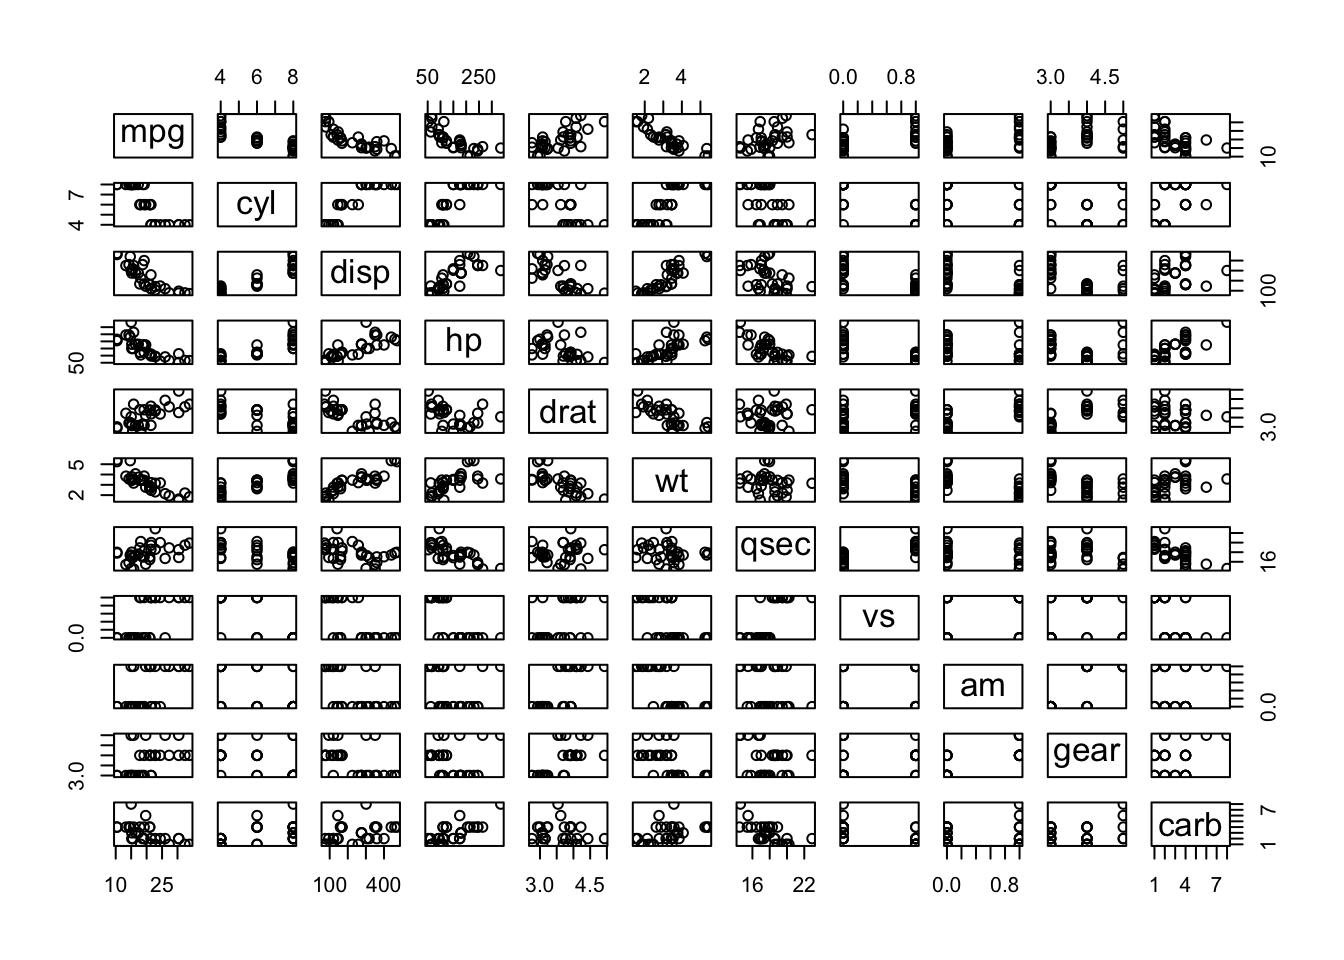
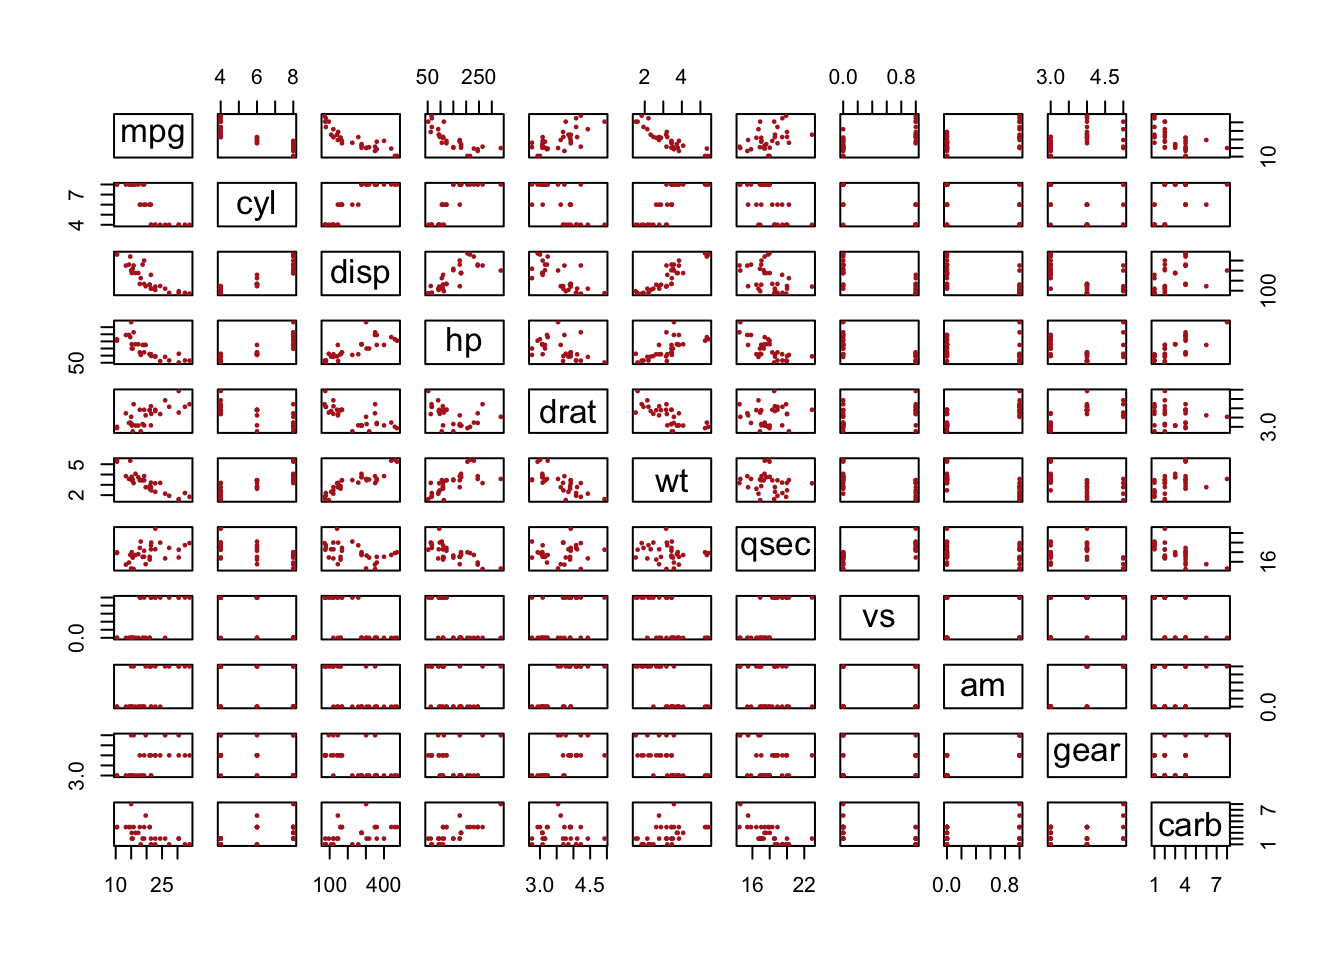
Add files via upload

diff --git a/assignment1.html b/assignment1.html
@@ -7,7 +7,7 @@
 <meta name="viewport" content="width=device-width, initial-scale=1.0, user-scalable=yes">
 
 
-<title>Su Goh - About</title>
+<title>Su Goh - Assignment#1</title>
 <style>
 code{white-space: pre-wrap;}
 span.smallcaps{font-variant: small-caps;}
@@ -19,40 +19,6 @@ ul.task-list li input[type="checkbox"] {
   width: 0.8em;
   margin: 0 0.8em 0.2em -1em; /* quarto-specific, see https://github.com/quarto-dev/quarto-cli/issues/4556 */ 
   vertical-align: middle;
-}
-/* CSS for syntax highlighting */
-pre > code.sourceCode { white-space: pre; position: relative; }
-pre > code.sourceCode > span { display: inline-block; line-height: 1.25; }
-pre > code.sourceCode > span:empty { height: 1.2em; }
-.sourceCode { overflow: visible; }
-code.sourceCode > span { color: inherit; text-decoration: inherit; }
-div.sourceCode { margin: 1em 0; }
-pre.sourceCode { margin: 0; }
-@media screen {
-div.sourceCode { overflow: auto; }
-}
-@media print {
-pre > code.sourceCode { white-space: pre-wrap; }
-pre > code.sourceCode > span { text-indent: -5em; padding-left: 5em; }
-}
-pre.numberSource code
-  { counter-reset: source-line 0; }
-pre.numberSource code > span
-  { position: relative; left: -4em; counter-increment: source-line; }
-pre.numberSource code > span > a:first-child::before
-  { content: counter(source-line);
-    position: relative; left: -1em; text-align: right; vertical-align: baseline;
-    border: none; display: inline-block;
-    -webkit-touch-callout: none; -webkit-user-select: none;
-    -khtml-user-select: none; -moz-user-select: none;
-    -ms-user-select: none; user-select: none;
-    padding: 0 4px; width: 4em;
-  }
-pre.numberSource { margin-left: 3em;  padding-left: 4px; }
-div.sourceCode
-  {   }
-@media screen {
-pre > code.sourceCode > span > a:first-child::before { text-decoration: underline; }
 }
 </style>
 
@@ -119,11 +85,11 @@ pre > code.sourceCode > span > a:first-child::before { text-decoration: underlin
  <span class="menu-text">Home</span></a>
   </li>  
   <li class="nav-item">
-    <a class="nav-link active" href="./about.html" rel="" target="" aria-current="page">
+    <a class="nav-link" href="./about.html" rel="" target="">
  <span class="menu-text">About</span></a>
   </li>  
   <li class="nav-item">
-    <a class="nav-link" href="./assignment1.html" rel="" target="">
+    <a class="nav-link active" href="./assignment1.html" rel="" target="" aria-current="page">
  <span class="menu-text">Assignment1</span></a>
   </li>  
   <li class="nav-item">
@@ -153,7 +119,7 @@ pre > code.sourceCode > span > a:first-child::before { text-decoration: underlin
 
 <header id="title-block-header" class="quarto-title-block default">
 <div class="quarto-title">
-<h1 class="title">About</h1>
+<h1 class="title">Assignment#1</h1>
 </div>
 
 
@@ -168,13 +134,28 @@ pre > code.sourceCode > span > a:first-child::before { text-decoration: underlin
 
 </header>
 
-<p>I am a graduate student at UT Dallas using R</p>
-<div class="cell">
-<div class="sourceCode cell-code" id="cb1"><pre class="sourceCode r code-with-copy"><code class="sourceCode r"><span id="cb1-1"><a href="#cb1-1" aria-hidden="true" tabindex="-1"></a><span class="fu">plot</span>(iris)</span></code><button title="Copy to Clipboard" class="code-copy-button"><i class="bi"></i></button></pre></div>
-<div class="cell-output-display">
-<p><img src="about_files/figure-html/unnamed-chunk-1-1.png" class="img-fluid" width="672"></p>
-</div>
-</div>
+<p>Assignment#1</p>
+<p>1.</p>
+<p><img src="assignment1_images/anscombe_data.jpeg" id="overview" class="img-fluid" width="500"></p>
+<p>Anscombe Data</p>
+<p><img src="assignment1_images/Rplot_anscombe01.jpeg" class="img-fluid" width="500"></p>
+<p>Anscombe’s Plots</p>
+<ol start="2" type="1">
+<li>Examples of Generative Art</li>
+</ol>
+<p><img src="assignment1_images/GenerativeArt_ManfredMohr.jpeg" class="img-fluid" width="500"></p>
+<p>Manfred Mohr. P-026-l, 1970, Plotter drawing on parchment paper, DAM Projects, Berlin.</p>
+<p><img src="assignment1_images/GenerativeArt_TylerHobbsQQL.jpeg" class="img-fluid" width="500"></p>
+<p>Tyler Hobbs, QQL: Analog 12 (QQL #230), 2023. Courtesy of the artist and Pace Gallery</p>
+<ol start="3" type="1">
+<li>Change different colors of a tree</li>
+</ol>
+<p><img src="assignment1_images/RplotPeru.jpeg" class="img-fluid" width="300"></p>
+<p>Chocolate Color</p>
+<p><img src="assignment1_images/RplotSpringOrchid.jpeg" class="img-fluid" width="300"></p>
+<p>Orchid Color</p>
+<p><img src="assignment1_images/RplotSpringPalegreen.jpeg" class="img-fluid" width="300"></p>
+<p>Palegreen Color</p>
 
 
 

diff --git a/assignment2.html b/assignment2.html
@@ -7,7 +7,7 @@
 <meta name="viewport" content="width=device-width, initial-scale=1.0, user-scalable=yes">
 
 
-<title>Su Goh - About</title>
+<title>Su Goh - Assignment#2</title>
 <style>
 code{white-space: pre-wrap;}
 span.smallcaps{font-variant: small-caps;}
@@ -19,40 +19,6 @@ ul.task-list li input[type="checkbox"] {
   width: 0.8em;
   margin: 0 0.8em 0.2em -1em; /* quarto-specific, see https://github.com/quarto-dev/quarto-cli/issues/4556 */ 
   vertical-align: middle;
-}
-/* CSS for syntax highlighting */
-pre > code.sourceCode { white-space: pre; position: relative; }
-pre > code.sourceCode > span { display: inline-block; line-height: 1.25; }
-pre > code.sourceCode > span:empty { height: 1.2em; }
-.sourceCode { overflow: visible; }
-code.sourceCode > span { color: inherit; text-decoration: inherit; }
-div.sourceCode { margin: 1em 0; }
-pre.sourceCode { margin: 0; }
-@media screen {
-div.sourceCode { overflow: auto; }
-}
-@media print {
-pre > code.sourceCode { white-space: pre-wrap; }
-pre > code.sourceCode > span { text-indent: -5em; padding-left: 5em; }
-}
-pre.numberSource code
-  { counter-reset: source-line 0; }
-pre.numberSource code > span
-  { position: relative; left: -4em; counter-increment: source-line; }
-pre.numberSource code > span > a:first-child::before
-  { content: counter(source-line);
-    position: relative; left: -1em; text-align: right; vertical-align: baseline;
-    border: none; display: inline-block;
-    -webkit-touch-callout: none; -webkit-user-select: none;
-    -khtml-user-select: none; -moz-user-select: none;
-    -ms-user-select: none; user-select: none;
-    padding: 0 4px; width: 4em;
-  }
-pre.numberSource { margin-left: 3em;  padding-left: 4px; }
-div.sourceCode
-  {   }
-@media screen {
-pre > code.sourceCode > span > a:first-child::before { text-decoration: underline; }
 }
 </style>
 
@@ -119,7 +85,7 @@ pre > code.sourceCode > span > a:first-child::before { text-decoration: underlin
  <span class="menu-text">Home</span></a>
   </li>  
   <li class="nav-item">
-    <a class="nav-link active" href="./about.html" rel="" target="" aria-current="page">
+    <a class="nav-link" href="./about.html" rel="" target="">
  <span class="menu-text">About</span></a>
   </li>  
   <li class="nav-item">
@@ -127,7 +93,7 @@ pre > code.sourceCode > span > a:first-child::before { text-decoration: underlin
  <span class="menu-text">Assignment1</span></a>
   </li>  
   <li class="nav-item">
-    <a class="nav-link" href="./assignment2.html" rel="" target="">
+    <a class="nav-link active" href="./assignment2.html" rel="" target="" aria-current="page">
  <span class="menu-text">Assignment2</span></a>
   </li>  
   <li class="nav-item">
@@ -153,7 +119,7 @@ pre > code.sourceCode > span > a:first-child::before { text-decoration: underlin
 
 <header id="title-block-header" class="quarto-title-block default">
 <div class="quarto-title">
-<h1 class="title">About</h1>
+<h1 class="title">Assignment#2</h1>
 </div>
 
 
@@ -168,13 +134,10 @@ pre > code.sourceCode > span > a:first-child::before { text-decoration: underlin
 
 </header>
 
-<p>I am a graduate student at UT Dallas using R</p>
-<div class="cell">
-<div class="sourceCode cell-code" id="cb1"><pre class="sourceCode r code-with-copy"><code class="sourceCode r"><span id="cb1-1"><a href="#cb1-1" aria-hidden="true" tabindex="-1"></a><span class="fu">plot</span>(iris)</span></code><button title="Copy to Clipboard" class="code-copy-button"><i class="bi"></i></button></pre></div>
-<div class="cell-output-display">
-<p><img src="about_files/figure-html/unnamed-chunk-1-1.png" class="img-fluid" width="672"></p>
-</div>
-</div>
+<p>Assignment#2</p>
+<p>1.</p>
+<p><img src="assignment2_images/plots_murrell01.jpeg" id="overview" class="img-fluid" width="500"></p>
+<p>Murrell’s Plots</p>
 
 
 

diff --git a/blog.html b/blog.html
@@ -7,7 +7,7 @@
 <meta name="viewport" content="width=device-width, initial-scale=1.0, user-scalable=yes">
 
 
-<title>Su Goh - About</title>
+<title>Su Goh - Blog</title>
 <style>
 code{white-space: pre-wrap;}
 span.smallcaps{font-variant: small-caps;}
@@ -19,40 +19,6 @@ ul.task-list li input[type="checkbox"] {
   width: 0.8em;
   margin: 0 0.8em 0.2em -1em; /* quarto-specific, see https://github.com/quarto-dev/quarto-cli/issues/4556 */ 
   vertical-align: middle;
-}
-/* CSS for syntax highlighting */
-pre > code.sourceCode { white-space: pre; position: relative; }
-pre > code.sourceCode > span { display: inline-block; line-height: 1.25; }
-pre > code.sourceCode > span:empty { height: 1.2em; }
-.sourceCode { overflow: visible; }
-code.sourceCode > span { color: inherit; text-decoration: inherit; }
-div.sourceCode { margin: 1em 0; }
-pre.sourceCode { margin: 0; }
-@media screen {
-div.sourceCode { overflow: auto; }
-}
-@media print {
-pre > code.sourceCode { white-space: pre-wrap; }
-pre > code.sourceCode > span { text-indent: -5em; padding-left: 5em; }
-}
-pre.numberSource code
-  { counter-reset: source-line 0; }
-pre.numberSource code > span
-  { position: relative; left: -4em; counter-increment: source-line; }
-pre.numberSource code > span > a:first-child::before
-  { content: counter(source-line);
-    position: relative; left: -1em; text-align: right; vertical-align: baseline;
-    border: none; display: inline-block;
-    -webkit-touch-callout: none; -webkit-user-select: none;
-    -khtml-user-select: none; -moz-user-select: none;
-    -ms-user-select: none; user-select: none;
-    padding: 0 4px; width: 4em;
-  }
-pre.numberSource { margin-left: 3em;  padding-left: 4px; }
-div.sourceCode
-  {   }
-@media screen {
-pre > code.sourceCode > span > a:first-child::before { text-decoration: underline; }
 }
 </style>
 
@@ -119,7 +85,7 @@ pre > code.sourceCode > span > a:first-child::before { text-decoration: underlin
  <span class="menu-text">Home</span></a>
   </li>  
   <li class="nav-item">
-    <a class="nav-link active" href="./about.html" rel="" target="" aria-current="page">
+    <a class="nav-link" href="./about.html" rel="" target="">
  <span class="menu-text">About</span></a>
   </li>  
   <li class="nav-item">
@@ -131,7 +97,7 @@ pre > code.sourceCode > span > a:first-child::before { text-decoration: underlin
  <span class="menu-text">Assignment2</span></a>
   </li>  
   <li class="nav-item">
-    <a class="nav-link" href="./blog.html" rel="" target="">
+    <a class="nav-link active" href="./blog.html" rel="" target="" aria-current="page">
  <span class="menu-text">Blog</span></a>
   </li>  
 </ul>
@@ -153,7 +119,7 @@ pre > code.sourceCode > span > a:first-child::before { text-decoration: underlin
 
 <header id="title-block-header" class="quarto-title-block default">
 <div class="quarto-title">
-<h1 class="title">About</h1>
+<h1 class="title">Blog</h1>
 </div>
 
 
@@ -168,13 +134,7 @@ pre > code.sourceCode > span > a:first-child::before { text-decoration: underlin
 
 </header>
 
-<p>I am a graduate student at UT Dallas using R</p>
-<div class="cell">
-<div class="sourceCode cell-code" id="cb1"><pre class="sourceCode r code-with-copy"><code class="sourceCode r"><span id="cb1-1"><a href="#cb1-1" aria-hidden="true" tabindex="-1"></a><span class="fu">plot</span>(iris)</span></code><button title="Copy to Clipboard" class="code-copy-button"><i class="bi"></i></button></pre></div>
-<div class="cell-output-display">
-<p><img src="about_files/figure-html/unnamed-chunk-1-1.png" class="img-fluid" width="672"></p>
-</div>
-</div>
+<p>This is my blog.</p>
 
 
 

diff --git a/index.html b/index.html
@@ -122,6 +122,18 @@ pre > code.sourceCode > span > a:first-child::before { text-decoration: underlin
     <a class="nav-link" href="./about.html" rel="" target="">
  <span class="menu-text">About</span></a>
   </li>  
+  <li class="nav-item">
+    <a class="nav-link" href="./assignment1.html" rel="" target="">
+ <span class="menu-text">Assignment1</span></a>
+  </li>  
+  <li class="nav-item">
+    <a class="nav-link" href="./assignment2.html" rel="" target="">
+ <span class="menu-text">Assignment2</span></a>
+  </li>  
+  <li class="nav-item">
+    <a class="nav-link" href="./blog.html" rel="" target="">
+ <span class="menu-text">Blog</span></a>
+  </li>  
 </ul>
             <div class="quarto-navbar-tools ms-auto">
 </div>
@@ -159,7 +171,7 @@ pre > code.sourceCode > span > a:first-child::before { text-decoration: underlin
 <p>This is a Su Goh website.</p>
 <p>To learn more about Quarto websites visit <a href="https://quarto.org/docs/websites" class="uri">https://quarto.org/docs/websites</a>.</p>
 <div class="cell">
-<div class="sourceCode cell-code" id="cb1"><pre class="sourceCode r code-with-copy"><code class="sourceCode r"><span id="cb1-1"><a href="#cb1-1" aria-hidden="true" tabindex="-1"></a><span class="fu">plot</span>(mtcars)</span></code><button title="Copy to Clipboard" class="code-copy-button"><i class="bi"></i></button></pre></div>
+<div class="sourceCode cell-code" id="cb1"><pre class="sourceCode r code-with-copy"><code class="sourceCode r"><span id="cb1-1"><a href="#cb1-1" aria-hidden="true" tabindex="-1"></a><span class="fu">plot</span>(mtcars, <span class="at">cex=</span>.<span class="dv">5</span>, <span class="at">pch=</span><span class="dv">16</span>, <span class="at">col=</span><span class="st">'firebrick'</span>)</span></code><button title="Copy to Clipboard" class="code-copy-button"><i class="bi"></i></button></pre></div>
 <div class="cell-output-display">
 <p><img src="index_files/figure-html/unnamed-chunk-1-1.png" class="img-fluid" width="672"></p>
 </div>
